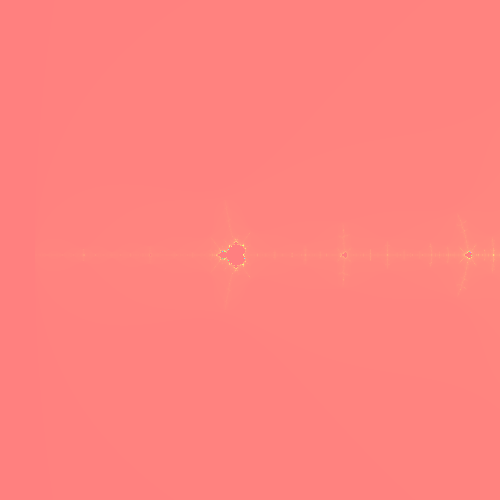
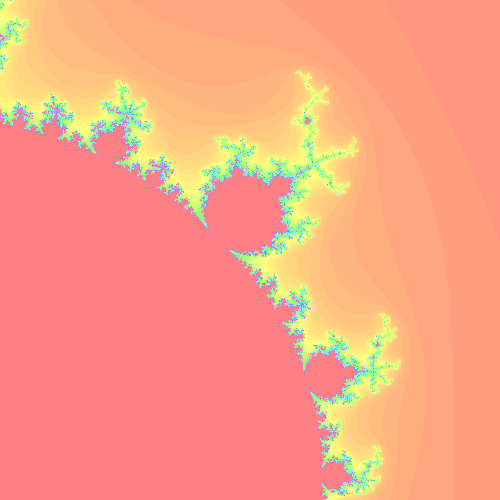
variety of issues Apr 8
better color esp at beginning
accurate coords
  consistent zoom

diff --git a/select7.py b/select7.py
@@ -28,7 +28,7 @@ from ruler0 import Ruler
 
 X,Y = Ruler.X,Ruler.Y
 zX,zY = Ruler.zX,Ruler.zY
-maxIt = 1000   # may need to change with multiple zooms
+maxIt = 100   # may need to change with multiple zooms
 
 def show_image_file(dp,label,win):  # from label symbol
 	file_name = Select.file_stub+str(dp) + '.png'
@@ -39,7 +39,7 @@ def show_image_file(dp,label,win):  # from label symbol
 
 
 class Select(Ruler):
-	file_stub = 'images/hsb'
+	# file_stub = 'images/hsb'
 	
 	def __init__(self,parent,dp) -> None:
 		self.dp = dp
@@ -64,7 +64,7 @@ class Select(Ruler):
 		"""select box region with cursor  Confirm with ==> button"""
 		print(myself())
 		bx = Circle(Point(0,0),1).draw(self.parent.woX.win)  #dummy for undraw
-		bx_drawn = False   	  				 # dummy drawn
+		bx_drawn = False   	  				 # only dummy drawn
 		while True:
 			c = self.parent.woX.win.getMouse()
 			if self.parent.bt.clicked(c) and bx_drawn: break
@@ -73,11 +73,7 @@ class Select(Ruler):
 			bx.undraw()
 			bx = rec_draw(self.xsel,self.parent.woX.win)
 			bx_drawn = True
-
-	def	ztransform(self):
-		xsel = self.xsel
-		self.zsel = self.trxz.world(xsel[0],xsel[1]) + self.trxz.world(xsel[2],xsel[3])
-		self.parent.trxz = Transform(X,Y,*self.zsel)
+		# self.parent.xsel = self.xsel
 
 	def darkgray_circles(self):
 		xdr = Select.xside2/20 
@@ -89,10 +85,11 @@ class Select(Ruler):
 	
 
 class SelectSeries(Ruler):
+	file_stub = 'images/hsb'
 
 	def __init__(self) -> None:
-		self.woZ = WindowObject('Z',X,Y)
 		self.woX = WindowObject('X',X,Y)
+		self.woZ = WindowObject('Z',X,Y)
 		self.woC = WindowObject('C',X,Y)
 		self.zsel= Ruler.gzbox
 
@@ -102,7 +99,7 @@ class SelectSeries(Ruler):
 			s = Select(self,dp)
 			s.select()
 			self.xsel = s.xsel
-			s.parent.get_zsel()
+			self.get_zsel()
 			self.print_stats(dp)
 			self.bt.wait()
 
@@ -114,7 +111,6 @@ class SelectSeries(Ruler):
 
 			self.bt.draw()
 			self.bt.wait()
-
 
 
 	def get_zsel(self):
@@ -152,7 +148,7 @@ class SelectSeries(Ruler):
 
 	def save_show_window(self,dp,win):
 		print(myself(),win)
-		self.file_name = Select.file_stub+str(dp) + '.png'
+		self.file_name = SelectSeries.file_stub+str(dp) + '.png'
 		if not hasattr(self,'image'): print('no image')
 		else:
 			self.image.save(self.file_name)
@@ -162,7 +158,7 @@ class SelectSeries(Ruler):
 				in_window(-0.5,0,self.file_name,self.woZ.win)
 
 			elif win=='C':
-				self.file_name = Select.file_stub+str(dp-1) + '.png'
+				self.file_name = SelectSeries.file_stub+str(dp-1) + '.png'
 				in_window(X/2,Y/2,self.file_name,self.woC.win)
 
 	def print_stats(self,dp):
@@ -177,11 +173,17 @@ class SelectSeries(Ruler):
 
 	def init_windows(self,dp):
 		"""shows initial state in both windows"""
-		self.file_name = Select.file_stub + str(dp) + '.png'
+		self.file_name = SelectSeries.file_stub + str(dp) + '.png'
 		in_window(-0.5,0,self.file_name,self.woZ.win)
 		in_window(X/2,Y/2,self.file_name,self.woX.win)
-		Circle(Point(0,0),3*X/50).draw(self.woX.win).setFill('darkgray')
-		Circle(Point(-2,-1.5),3*zX/50).draw(self.woZ.win).setFill('darkgray')
+		self.origin_marker('X')
+		self.origin_marker('Z')
+
+	def origin_marker(self,win_label):
+		if win_label in ['X','C']:
+			Circle(Point(0,0),3*X/50).draw(self.woX.win).setFill('darkgray')
+		elif win_label=='Z':
+			Circle(Point(-2,-1.5),3*zX/50).draw(self.woZ.win).setFill('darkgray')
 
 	def init_button(self,win):
 		win = self.woX.win
@@ -201,41 +203,18 @@ class SelectSeries(Ruler):
 		self.print_stats(0)
 
 		self.draw_image(0,self.trxz)
-
-	def select_seriesx(self,dp):
-		# might use dp to start at arbitrary depth
-		self.dp = dp
-		self.init_windows(dp)
-		self.init_button(self.woX.win)
 		
-		while True:
-			print(3*' = = =')
-			s = Select(self,dp)   # s is state, self is parent/select_series
-			s.select()  # select region by center
-			s.get_zsel()
-			dp += 1		
-			s.depth = dp 
-			s.file_name = Select.file_stub+str(dp)+'.png'
 
-			s.draw_image(s.trxz)
-			s.save_show_window(dp,s.parent.woX.win) 
-			Circle(Point(0,0),3*X/50).draw(self.woX.win).setFill('darkgray')
-			self.bt.draw()
-
-			s.print_stats()   #Transform will be different
-
-			self.bt.wait()
-			in_window(-0.5,0,s.file_name,self.woZ.win)
-
+	
 			
-
 
 if __name__ == "__main__":
 	def draw_state0():
 		ss = SelectSeries()
 		ss.draw_whole()
-		show_image_file(0,'X',ss.woX.win)
-		show_image_file(0,'Z',ss.woZ.win)
+		# show_image_file(0,'X',ss.woX.win)
+		# show_image_file(0,'Z',ss.woZ.win)
+		ss.image.save(SelectSeries.file_stub + '0.png')
 		ss.woX.win.getMouse()
 
 	# draw_state0()

diff --git a/helpers.py b/helpers.py
@@ -14,14 +14,6 @@ def rec_draw(abox,win) :
     return Rectangle(Point(xa,ya),Point(xb,yb)).draw(win)
 
 
-# def grid(crnLst,win,u):
-# 	xa,ya,xb,yb = crnLst
-# 	for i in range(xa,xb+1,u):
-# 		for j in range(ya,yb+1,u):
-# 			Rectangle(Point(i,j),Point(i+u,j+u)).draw(win)
-# 			# Text(Point(i-0.03*u,j-0.07*u),str(i)+', '+str(j)).draw(win).setSize(18)
-# 			Text(Point(i+0.15,j-0.07*u),str(i)+', '+str(j)).draw(win).setSize(18)
-
 def grid(crnLst,win,u):
 	xa,ya,xb,yb = crnLst
 	xa,xb = int(xa),int(xb)
@@ -31,12 +23,6 @@ def grid(crnLst,win,u):
 			# Text(Point(i-0.03*u,j-0.07*u),str(i)+', '+str(j)).draw(win).setSize(18)
 			Text(Point(i+0.15,j-0.07*u),str(i)+', '+str(j)).draw(win).setSize(18)
 
-def gridx(crnLst,win,u):
-	xa,ya,xb,yb = crnLst
-	for i in range(xa,xb,u):
-		for j in range(ya,yb,u):
-			Rectangle(Point(i,j),Point(i+u,j+u)).draw(win)
-			Text(Point(i-0.08,j+0.07),str(i)+','+str(j)).draw(win).setSize(18)
 
 
 def grid_labels(box,win):
@@ -77,6 +63,7 @@ def mandelbrot(x,y,maxIt):
 	z = complex(0,0)
 	for i in range(maxIt):
 		if abs(z) > 2: break
+		# zn+1 = zn2 + c. 
 		z = z * z + c
 	hue = (i/maxIt)
 	return hue

diff --git a/window_object.py b/window_object.py
@@ -33,7 +33,7 @@ class WindowObject(Ruler):
 			self.ctpl = Ruler.gscreen
 			self.win.setCoords(*self.ctpl)
 		elif self.label=='Z':
-			self.lctpl = (X,Y,  2*X + 160, 60)
+			self.lctpl = (X,Y,  2*X + 130, 60)
 			window_location(self.win,*self.lctpl)  # right panel
 			self.ctpl = Ruler.gzbox
 			self.win.setCoords(*self.ctpl)
@@ -52,8 +52,8 @@ if __name__=='__main__':
 		wo = WindowObject(label,X,Y)
 		wo.name = 'win' + str(label)
 
-		if n==1: grid((0,0,X,Y),wo.win,100)
-		elif n==2: grid((-3,-3,3,3),wo.win,1)
+		if label=='C': grid((0,0,X,Y),wo.win,100)
+		elif label=='Z': grid((-3,-3,3,3),wo.win,1)
 
 		n += 1
 

diff --git a/ruler0.py b/ruler0.py
@@ -3,6 +3,6 @@
 class Ruler():
 	X,Y = 500,500
 	zX,zY = 3,3
-	gscreen = 0,0,X,Y
+	gscreen = 0,Y,X,0
 	gzbox = -2,1.5,1,-1.5
 	xside2 = X/10
